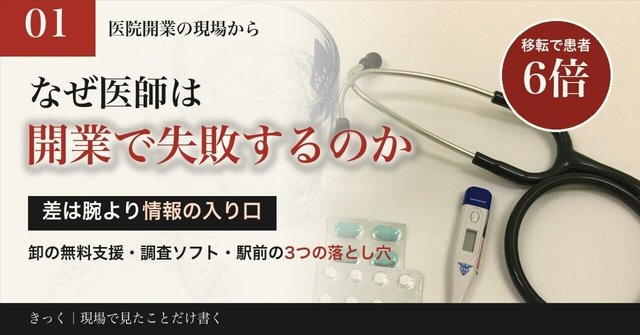
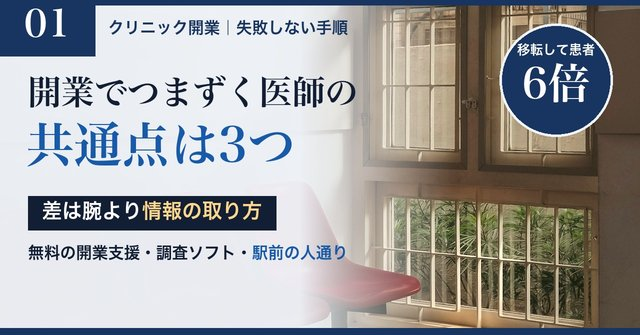
HP：コラムの棚名と表紙をnoteの3軸に合わせる／一時置き場を削除
Claude-Session: https://claude.ai/code/session_012giY5uB1At18yaFhcyBjHo

diff --git a/index.html b/index.html
@@ -372,11 +372,11 @@ footer small{font-family:var(--f-en);letter-spacing:.2em;font-size:.8rem}
     <h2 class="h2 rv d1">コラム</h2>
     <p class="subtxt rv d1">代表の菊池が、現場で確かめたことを自分の言葉でnoteに書いています。</p>
     <div class="cases">
-      <article class="rv"><a class="thumb" href="https://note.com/kemkemsp/m/m4c6af59e1adf" target="_blank" rel="noopener" tabindex="-1" aria-hidden="true"><img src="img/note_A01.jpg" alt="" loading="lazy" width="640" height="335"></a><span class="tag">MEDICAL</span><h3><a href="https://note.com/kemkemsp/m/m4c6af59e1adf" target="_blank" rel="noopener">医院開業の現場から</a></h3>
+      <article class="rv"><a class="thumb" href="https://note.com/kemkemsp/m/m4c6af59e1adf" target="_blank" rel="noopener" tabindex="-1" aria-hidden="true"><img src="img/note_A01.jpg" alt="" loading="lazy" width="640" height="335"></a><span class="tag">MEDICAL</span><h3><a href="https://note.com/kemkemsp/m/m4c6af59e1adf" target="_blank" rel="noopener">クリニック開業｜手順と実例</a></h3>
         <dl><dt>開業・移転を考える先生へ</dt><dd><a href="https://note.com/kemkemsp/n/n121a80650ead" target="_blank" rel="noopener">なぜ医師は開業で失敗するのか</a></dd><dd><a href="https://note.com/kemkemsp/n/n92551933903a" target="_blank" rel="noopener">診療圏調査の正しいやり方</a></dd><dd><a href="https://note.com/kemkemsp/n/n0edbe6e599f7" target="_blank" rel="noopener">クリニック開業の賃料交渉</a></dd></dl></article>
-      <article class="rv d1"><a class="thumb" href="https://note.com/kemkemsp/m/m85a008377479" target="_blank" rel="noopener" tabindex="-1" aria-hidden="true"><img src="img/note_B02.jpg" alt="" loading="lazy" width="640" height="335"></a><span class="tag">REAL ESTATE</span><h3><a href="https://note.com/kemkemsp/m/m85a008377479" target="_blank" rel="noopener">不動産を持つ人の手順書</a></h3>
+      <article class="rv d1"><a class="thumb" href="https://note.com/kemkemsp/m/m85a008377479" target="_blank" rel="noopener" tabindex="-1" aria-hidden="true"><img src="img/note_B02.jpg" alt="" loading="lazy" width="640" height="335"></a><span class="tag">REAL ESTATE</span><h3><a href="https://note.com/kemkemsp/m/m85a008377479" target="_blank" rel="noopener">不動産｜持ったら読む手順と売買の実例</a></h3>
         <dl><dt>地主・大家・相続の方へ</dt><dd><a href="https://note.com/kemkemsp/n/n66cd474166b8" target="_blank" rel="noopener">変動金利の「元金が減らなくなる線」</a></dd><dd><a href="https://note.com/kemkemsp/n/n2e62a75f8050" target="_blank" rel="noopener">買ったら最初の30日でやる12項目</a></dd><dd><a href="https://note.com/kemkemsp/n/n652682b578d2" target="_blank" rel="noopener">許可・決済・登記の3段</a></dd></dl></article>
-      <article class="rv d2"><a class="thumb" href="https://note.com/kemkemsp/m/m28e67d44152a" target="_blank" rel="noopener" tabindex="-1" aria-hidden="true"><img src="img/note_C02.jpg" alt="" loading="lazy" width="640" height="335"></a><span class="tag">CASES</span><h3><a href="https://note.com/kemkemsp/m/m28e67d44152a" target="_blank" rel="noopener">実績のミソ（事業横断）</a></h3>
+      <article class="rv d2"><a class="thumb" href="https://note.com/kemkemsp/m/m28e67d44152a" target="_blank" rel="noopener" tabindex="-1" aria-hidden="true"><img src="img/note_C02.jpg" alt="" loading="lazy" width="640" height="335"></a><span class="tag">CASES</span><h3><a href="https://note.com/kemkemsp/m/m28e67d44152a" target="_blank" rel="noopener">実績｜うまくいった理由（事業横断）</a></h3>
         <dl><dt>難しい物件が売れた理由</dt><dd><a href="https://note.com/kemkemsp/n/n842da1611e22" target="_blank" rel="noopener">買う前に、売る相手が決まっていた</a></dd><dd><a href="https://note.com/kemkemsp/n/n141baf829a06" target="_blank" rel="noopener">相続人5人・築53年の団地</a></dd><dd><a href="https://note.com/kemkemsp/n/n4d8c3e0506cc" target="_blank" rel="noopener">任意売却の区分マンション</a></dd></dl></article>
     </div>
   </div>
